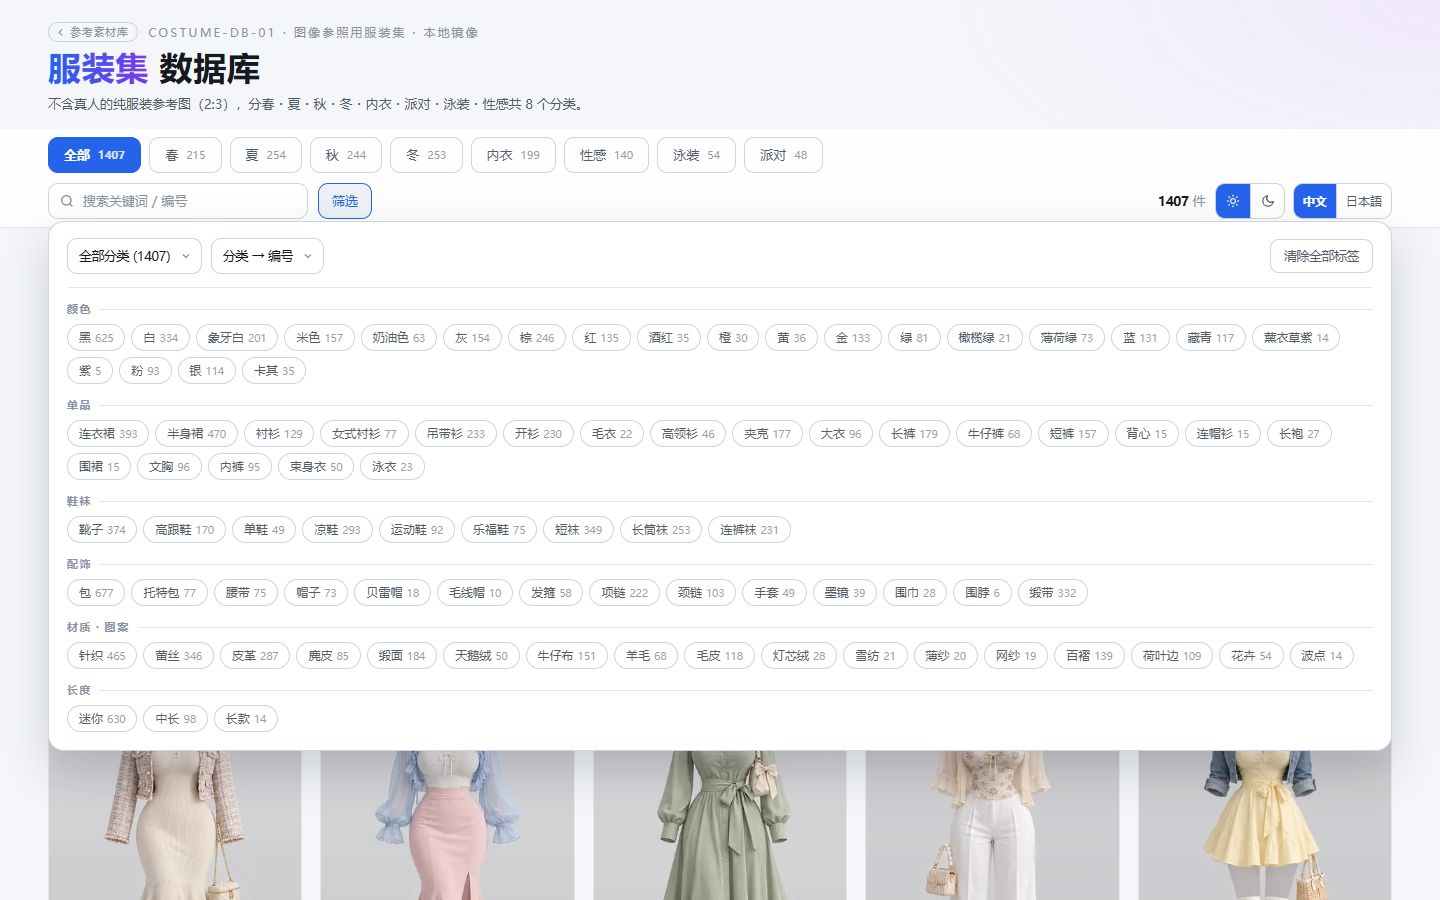
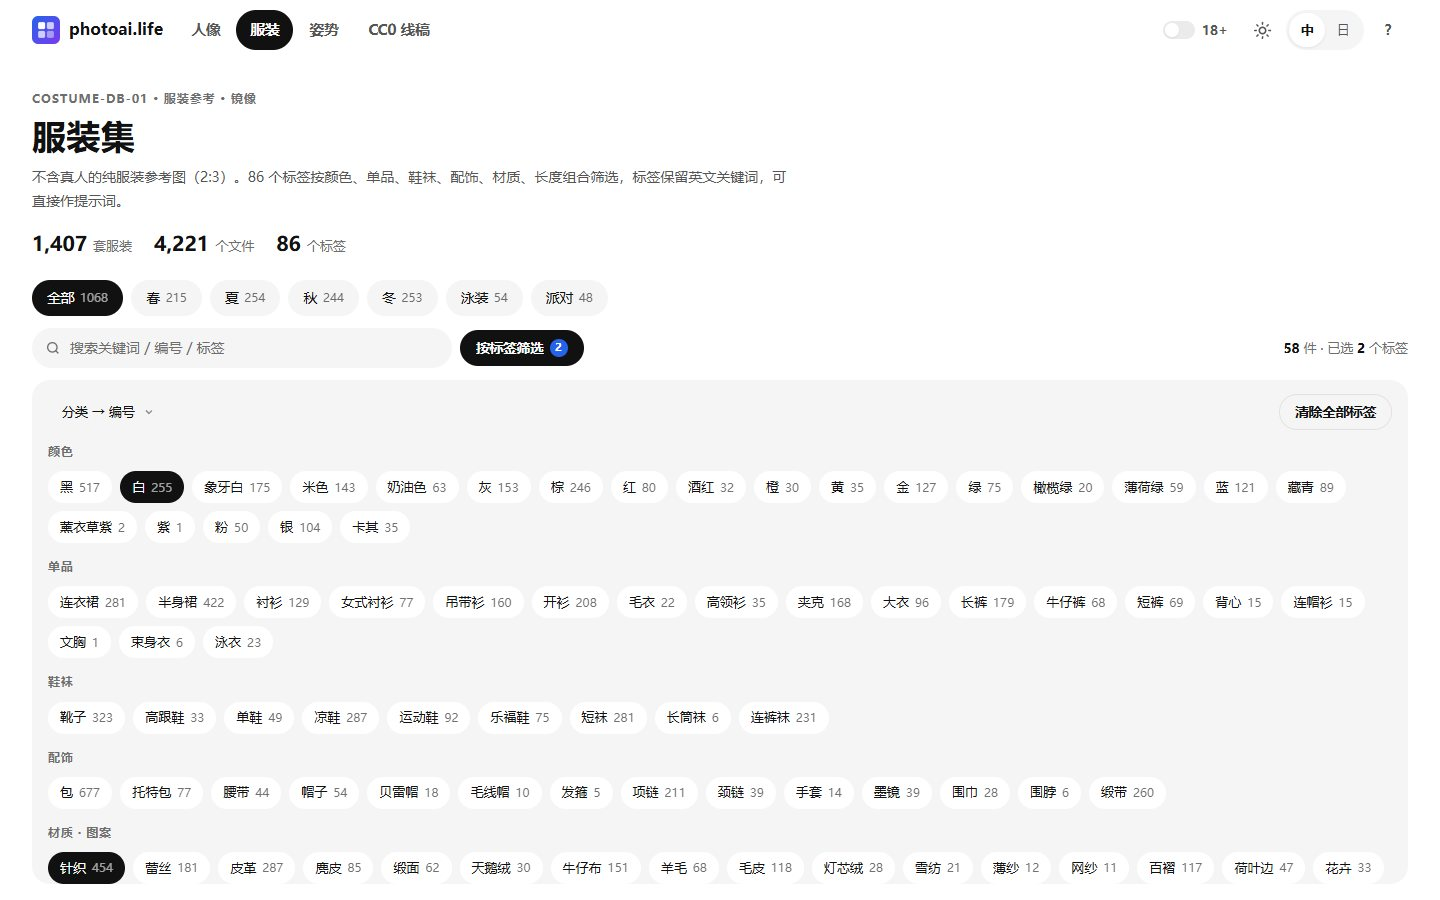
docs: README 三语、部署手册、加站指南与截图更新为新界面
- README 截图改用新界面（浅色、不含成人向内容）；姿势集写明线稿与深度图一个模块
- DEPLOY.md：原子对调循环补上 shisei 与根级文件（含新增的 404.html），修正文件数、拓扑、系统要求与验收清单
- nginx.conf 模板补 shisei 与可选 gzip 示例（线上配置不动）
- ADDING_A_SITE：ui.py 骨架用法、mergedInto / updated 字段，修正封面比例与 code 位置
- 各站 README 注明界面已统一

diff --git a/deploy/DEPLOY.md b/deploy/DEPLOY.md
@@ -10,7 +10,7 @@
 
 | 项 | 要求 |
 |---|---|
-| 系统 | Ubuntu 20.04+ / Debian 11+ |
+| 系统 | Debian 13 / Ubuntu 24.10+（原子对调需要 GNU coreutils 9.5+ 的 `mv --exchange`） |
 | git | 任意版本（更新用 `tools/update.py`，见 §4） |
 | Python | 3.8+；`tools/mid.py` 需要 Pillow（`apt install python3-pil`），其余只用标准库 |
 | 磁盘 | ≥ 10 GB 可用（图片 6.8 GB + 中图约 290 MB；硬链接不额外占盘） |
@@ -54,10 +54,10 @@ python3 tools/release.py
 发布 · 5 个站点 → /srv/ai-image-gallery/dist
   图片校验通过
   [portrait] 74 个站点文件  图片 4497 链接  → 4.8 GB
-  [costume] 106 个站点文件  图片 4221 链接  → 1.4 GB
-  [pose] 23 个站点文件  图片 4317 链接  → 710.3 MB
-  [pose-depth] 23 个站点文件  图片 4317 链接  → 162.5 MB
-  [shisei] 23 个站点文件  图片 3399 链接  → 59.1 MB
+  [costume] 98 个站点文件  图片 4221 链接  → 1.4 GB
+  [pose] 22 个站点文件  图片 4317 链接  → 710.3 MB
+  [pose-depth] 22 个站点文件  图片 4317 链接  → 162.5 MB
+  [shisei] 24 个站点文件  图片 3399 链接  → 59.1 MB
   [hub] 9 个根级文件已复制（index.html, sitemap.xml, robots.txt, og-cover.jpg, llms.txt, favicon.ico, …）
 其中 20751 个图片文件为硬链接，不额外占盘
 ```
@@ -75,8 +75,9 @@ python3 tools/release.py
 https://photoai.life/            入口页
 https://photoai.life/portrait/   人像集
 https://photoai.life/costume/    服装集
-https://photoai.life/pose/       姿势集
-https://photoai.life/pose-depth/ 深度姿势集
+https://photoai.life/pose/       姿势集（默认线稿，可切换深度图）
+https://photoai.life/pose-depth/ 姿势集的深度图入口（同一模块，默认深度图）
+https://photoai.life/shisei/     CC0 姿势线稿
 ```
 
 ### 2.1 前置：DNS 与证书
@@ -133,7 +134,7 @@ find /srv/ai-image-gallery/dist -name '*.jpg' -o -name '*.webp' -o -name '*.png'
 # 期望 20751 张图片（含 4377 张生成的中图与 Shisei 的 1133 张上游中图）
 
 # HTTP
-for p in / /portrait/ /pose/ /pose-depth/ /costume/; do
+for p in / /portrait/ /costume/ /pose/ /pose-depth/ /shisei/ /404.html; do
   printf "%-14s " "$p"; curl -s -o /dev/null -w "%{http_code}\n" "https://实际域名.com$p"
 done
 
@@ -151,10 +152,10 @@ curl -s https://实际域名.com/pose/ | grep -o 'rel="canonical" href="[^"]*"'
 
 浏览器逐站确认：
 
-- [ ] 入口页四张卡封面正常显示
+- [ ] 入口页四张大图卡片正常显示（姿势卡左半线稿、右半深度图）
 - [ ] 点击进入各站，图片能加载
-- [ ] 主题切换 ☀/☾ 有效，默认浅色
-- [ ] 语言切换 中文/日本語 有效，默认中文
+- [ ] 顶部栏的深浅色、中 / 日、18+、`?` 都有效；在一个图库里切换后，其他图库也跟着变
+- [ ] 姿势集的「线稿 / 深度图」开关整页切换，大图里「对比」可以拖动竖线
 - [ ] 卡片点开灯箱：立即显示清晰缩略图，随后换成中图（开发者工具 Network 里应是 `mid/*.webp`，不是 `img/*.png`）
 - [ ] 灯箱 `←` `→` 翻页，`Esc` 关闭；连续翻页时不会闪出上一张图
 - [ ] 滚到底部能自动加载下一页
@@ -184,14 +185,15 @@ python3 tools/release.py --out dist-stage
 
 ```bash
 test ! -e dist-prev || exit 1
-for x in index.html portrait costume pose pose-depth; do
-  mv -T --exchange "dist-stage/$x" "dist/$x" || break
+for x in index.html 404.html sitemap.xml robots.txt llms.txt portrait costume pose pose-depth shisei; do
+  if [ -e "dist/$x" ]; then mv -T --exchange "dist-stage/$x" "dist/$x" || break
+  else mv -T "dist-stage/$x" "dist/$x"; fi
 done
 mv -T dist-stage dist-prev        # 对调后暂存目录里是旧版，留作回滚
 ```
 
 `mv --exchange` 需要 GNU coreutils 9.5+（Debian 13 自带 9.7），而且**必须带 `-T`**，
-否则目标会被当成父目录，命令报错退出。只更新了部分站点时，循环里只写那几个。
+否则目标会被当成父目录，命令报错退出。线上还没有的项（例如第一次发布的 `404.html`）直接 `mv -T` 放进去，这时 `dist-prev` 里没有它，回滚时手动删掉即可。只更新了部分站点时，循环里只写那几个。
 对调完成后不需要 reload nginx。
 
 `update.py` 把改动分两类：`build.py` 会重写的构建产物直接丢弃；其他文件（源码、配置）
@@ -224,8 +226,8 @@ python3 tools/release.py --site pose --out dist-stage
 
 ```bash
 cd /srv/ai-image-gallery
-for x in index.html portrait costume pose pose-depth; do
-  mv -T --exchange "dist-prev/$x" "dist/$x" || break
+for x in index.html 404.html sitemap.xml robots.txt llms.txt portrait costume pose pose-depth shisei; do
+  [ -e "dist-prev/$x" ] && { mv -T --exchange "dist-prev/$x" "dist/$x" || break; }
 done
 ```
 
@@ -282,8 +284,8 @@ python3 tools/release.py --out dist-stage
 |---|---|---|
 | 人像集 | CC0 1.0 | ✅ 可自由分发 |
 | 姿势集 | 禁止再分发 | ⚠ 公开可访问在性质上接近再分发 |
-| 深度姿势集 | 禁止再分发 + **禁止批量下载** | ⚠ 同上，且 `fetch.py` 属被禁止行为 |
+| 姿势集 · 深度图 | 禁止再分发 + **禁止批量下载** | ⚠ 同上，且 `fetch.py` 属被禁止行为 |
 | 服装集 | 禁止再分发 | ⚠ 同姿势集 |
 | Shisei 姿势线稿 | 图片 CC0 1.0；姿势目录仅注明出处 | ✅ 图片可自由分发；suggestive 姿势默认模糊（「18+」开关打开后清晰），不进落地页与 sitemap |
 
-建议：如需公开，至少加访问控制（`nginx.conf` 末尾有配置示例）。
+成人向内容（姿势的双人与性感系列、服装的内衣与性感两类）在画廊里默认隐藏，不进任何落地页与 sitemap（`sites.json` 的 `adult` 规则）。

diff --git a/README.md b/README.md
@@ -4,7 +4,7 @@
 
 **五个 AI 绘画参考图库，一个仓库构建，一个目录部署**
 
-人像 · 姿势 · 深度姿势 · 服装 · CC0 姿势线稿 · 15,241 张参考图 · 中日双语 · 浅色 / 深色
+人像 · 姿势（线稿与深度图） · 服装 · CC0 姿势线稿 · 15,241 张参考图 · 中日双语 · 浅色 / 深色
 
 [![CI](https://github.com/Brilliant666/ai-image-gallery/actions/workflows/ci.yml/badge.svg)](https://github.com/Brilliant666/ai-image-gallery/actions/workflows/ci.yml)
 [![online](https://img.shields.io/badge/online-photoai.life-2563eb?style=flat-square)](https://photoai.life/)
@@ -34,7 +34,7 @@
 
 ![姿势集 · 灯箱](docs/screenshots/pose-lightbox.jpg)
 
-![深度姿势集](docs/screenshots/pose-depth-grid.jpg)
+![姿势集 · 深度图](docs/screenshots/pose-depth-grid.jpg)
 
 ![服装集 · 分面筛选](docs/screenshots/costume-filter.jpg)
 
@@ -50,12 +50,12 @@
 | --- | --- | --- | :---: |
 | [人像集](https://photoai.life/portrait/) | 保持角色脸部一致性的人脸参考，按发型筛选 | 1,499 张 | **CC0** |
 | [姿势集](https://photoai.life/pose/) | 无脸灰色人偶线稿，每个姿势 5 个视角 | 1,439 张 | 禁止再分发 |
-| [深度姿势集](https://photoai.life/pose-depth/) | 同批姿势的灰度深度图，适合 ControlNet | 1,439 张 | 禁止再分发 |
+| [姿势集 · 深度图](https://photoai.life/pose-depth/) | 同一模块的深度图入口，灰度深度图可直接用于 ControlNet | 1,439 张 | 禁止再分发 |
 | [服装集](https://photoai.life/costume/) | 不含真人的服装图，86 个标签分面筛选 | 1,407 件 / 4,221 张 | 禁止再分发 |
 | [Shisei 姿势线稿](https://photoai.life/shisei/) | 无脸人偶线稿，四个系列、每个姿势 5 个视角，偏性感的默认模糊 | 280 个姿势 / 1,133 张 | **CC0** |
 
-每个站都有：网格分页加载、筛选与搜索、灯箱（`←` `→` 翻页，`Esc` 关闭，手机可滑动）、原图下载、主题与语言切换。页首有一条共用顶部栏，可在五个图库之间切换，`?` 查看快捷键、`/` 跳到搜索框；姿势与深度姿势的大图里可以直接跳到另一站的同一张图。
-姿势、深度姿势和服装集的成人向内容默认隐藏，Shisei 的默认模糊；工具栏的「18+」开关确认一次年龄后打开，五个站通用。成人向内容不进任何静态落地页和 sitemap。页面是单个 `index.html`，数据内嵌，没有框架、CDN 和外部字体。
+每个站都有：网格分页加载、筛选与搜索、灯箱（`←` `→` 翻页，`Esc` 关闭，手机可滑动）、原图下载、主题与语言切换。页首是全站共用的顶部栏：图库切换、18+、深浅色、中 / 日都在上面，偏好全站通用；`?` 查看快捷键、`/` 跳到搜索框。姿势集用一个开关在线稿和深度图之间切换，大图里可以拖动竖线左右对比。
+姿势、深度姿势和服装集的成人向内容默认隐藏，Shisei 的默认模糊；顶部栏的「18+」确认一次年龄后打开，各图库通用。成人向内容不进任何静态落地页和 sitemap。页面是单个 `index.html`，数据内嵌，没有框架、CDN 和外部字体。
 
 > **人像集和 Shisei 是 CC0**，其余三个站的素材禁止再分发。Shisei 的姿势目录沿用 ai-pose-gallery，只注明出处。详见各站的 `sites/<id>/NOTICE.md`。
 

diff --git a/README_ja.md b/README_ja.md
@@ -54,7 +54,7 @@
 | [衣装集](https://photoai.life/costume/) | 人物なしの衣装、86 タグで絞り込み | 1,407 着 / 4,221 枚 | 再配布禁止 |
 | [Shisei 線画](https://photoai.life/shisei/) | 顔なしマネキン線画、4 シリーズ × 5 アングル。suggestive はぼかし表示 | 280 ポーズ / 1,133 枚 | **CC0** |
 
-各サイト共通：ページ送り付きグリッド、絞り込みと検索、ライトボックス（`←` `→` で移動、`Esc` で閉じる、タッチでスワイプ）、原寸ダウンロード、テーマと言語の切り替え。ページ上部の共通バーで 5 つのギャラリーを行き来でき、`?` でショートカット一覧、`/` で検索欄へ移動します。ポーズ集とデプス ポーズ集の拡大表示では、もう一方のサイトの同じ画像へ直接移動できます。ポーズ集・深度ポーズ集・衣装集の成人向け内容は初期状態で非表示、Shisei はぼかし表示です。ツールバーの「18+」スイッチで年齢を一度確認すると表示され、5 サイト共通で記憶します。成人向け内容は静的ランディングページと sitemap には載りません。ページは単一の `index.html` でデータを内蔵し、フレームワーク・CDN・Web フォントを使いません。
+各サイト共通：ページ送り付きグリッド、絞り込みと検索、ライトボックス（`←` `→` で移動、`Esc` で閉じる、タッチでスワイプ）、原寸ダウンロード、テーマと言語の切り替え。ページ上部の共通バーにギャラリー切り替え・18+・ライト / ダーク・言語をまとめ、設定は全ギャラリー共通です。`?` でショートカット一覧、`/` で検索欄へ移動します。ポーズ集はスイッチ一つで線画と深度マップを切り替え、拡大表示では仕切りをドラッグして左右に比較できます。ポーズ集・深度ポーズ集・衣装集の成人向け内容は初期状態で非表示、Shisei はぼかし表示です。上部バーの「18+」で年齢を一度確認すると表示され、5 サイト共通で記憶します。成人向け内容は静的ランディングページと sitemap には載りません。ページは単一の `index.html` でデータを内蔵し、フレームワーク・CDN・Web フォントを使いません。
 
 > **CC0 はポートレート集と Shisei です。** 他の 3 サイトの素材は再配布禁止です。Shisei のポーズ目録は ai-pose-gallery に基づき出典表記のみです。詳しくは `sites/<id>/NOTICE.md` を参照してください。
 

diff --git a/docs/ADDING_A_SITE.md b/docs/ADDING_A_SITE.md
@@ -49,9 +49,11 @@ sites/<新站id>/
 | `id` | 唯一标识，同时是目录名和 URL 路径 |
 | `source` | 原站地址，下载时作为 Referer |
 | `imageBase` | 可选。图片不在原站域名下时填写（如 Shisei 的图片在上游 GitHub 固定标签里），测试据此核对 manifest 的 URL |
-| `code` | 入口页封面左下角的编号 |
+| `code` | 站点编号，写在画廊页头的小标题里 |
+| `mergedInto` | 可选。并入另一个站点的模块时填对方 id（如 `pose-depth` → `pose`）：入口页与顶部栏不单独列出，下载、校验、发布照常 |
+| `updated` | 站点数据最近更新的日期，写进 sitemap 的 lastmod |
 | `cover` | 相对站点目录的封面路径 |
-| `coverPos` | 封面框是 16:10，竖图必然裁切：脸部特写用 `25%`–`35%`，全身图用 `0%`–`10%`，主体居中用 `50%` |
+| `coverPos` | 入口页封面框是 4:5，横图必然裁切：脸部特写用 `25%`–`35%`，全身图用 `0%`–`10%`，主体居中用 `50%` |
 | `tiers` | 下载与校验的档位，对应 manifest 里的 `<tier>_url` / `<tier>_path` |
 | `imageDirs` | `release.py` 硬链接的目录；含 `mid` 时 `mid.py` 会为该站生成中图（`tiers` 里已有 `mid` 的站点由上游提供，不生成） |
 | `license` | `cc0` / `conditional` / `restricted`，决定入口页卡片上的授权徽章 |
@@ -80,10 +82,9 @@ python tests/run.py                      # 提交前跑一遍；CI 也会跑
 
 新站点请保持一致：
 
-- 页首放共用顶部栏（`shared/sitenav.py` 的 `parts()`），栏上的短名在 `sitenav.LABELS` 里加一条
-- 主题切换 `[☀ Light][☾ Dark]`，默认浅色
-- 语言切换 `[中文][日本語]`，默认中文，中文在左
-- `<head>` 内用同步脚本应用已存偏好，避免刷新闪白
+- 页面骨架用 `shared/ui.py`：`<head>` 放 `head_script()` 和 `head_css()`，`<body>` 开头放 `bar(<站点id>)`，末尾放 `dialogs()` 和 `body_script()`。顶部栏里的短名在 `ui.LABELS` 里加一条
+- 深浅色、语言、18+ 都在顶部栏，偏好全站共用（`pl.theme` / `pl.lang` / `hub.adult`），页面监听 `pl:lang`、`pl:adult` 事件更新自己
+- 静态中日文写成 `<span class="zh">…</span><span class="ja">…</span>`，动态文案放进站点的 UI 表
 - 单文件 `index.html`，数据内嵌，零外部依赖
 - 分页加 `IntersectionObserver` 预取，不一次渲染全部卡片
 - 灯箱底图用清晰缩略图，不加模糊；中图到达后淡入

diff --git a/README_en.md b/README_en.md
@@ -54,7 +54,7 @@ Screenshots are taken from the live site to show the UI. The artwork belongs to 
 | [Costume](https://photoai.life/costume/) | Outfits without models, 86 faceted tags | 1,407 items / 4,221 files | No redistribution |
 | [Shisei line art](https://photoai.life/shisei/) | Faceless mannequin line art, 4 series × 5 angles; suggestive poses blurred by default | 280 poses / 1,133 | **CC0** |
 
-Every site has paginated grids, filters and search, a lightbox (`←` `→` to step, `Esc` to close, swipe on touch), original downloads, and theme and language switches. A shared top bar links all five galleries; press `?` for shortcuts and `/` to jump to search. In the Pose and Pose Depth lightboxes you can jump straight to the same image on the other site. Adult-oriented items are hidden by default on Pose, Pose Depth and Costume, and blurred on Shisei; the 18+ switch in the toolbar shows them after a one-time age check, shared across all five sites. They never appear on static landing pages or in the sitemap. Each page is a single `index.html` with embedded data and no framework, CDN or web fonts.
+Every site has paginated grids, filters and search, a lightbox (`←` `→` to step, `Esc` to close, swipe on touch), original downloads, and theme and language switches. A shared top bar holds the gallery links and the 18+, light / dark and language switches; preferences apply across all galleries. Press `?` for shortcuts and `/` to jump to search. Pose has one switch between line art and depth maps, and the lightbox can compare both with a draggable divider. Adult-oriented items are hidden by default on Pose, Pose Depth and Costume, and blurred on Shisei; the 18+ switch in the top bar shows them after a one-time age check, shared across all five sites. They never appear on static landing pages or in the sitemap. Each page is a single `index.html` with embedded data and no framework, CDN or web fonts.
 
 > **Portrait and Shisei images are CC0.** The other three sites forbid redistribution. Shisei's pose list follows ai-pose-gallery and is credited only. See `sites/<id>/NOTICE.md`.
 

diff --git a/sites/pose/README.md b/sites/pose/README.md
@@ -1,5 +1,9 @@
 # AI Pose Gallery · 中文版
 
+> **2026-10-31 起**：页面外观、顶部栏（图库切换、18+、深浅色、中 / 日、快捷键）与偏好来自 `shared/ui.py`，全站统一；下文关于页内主题 / 语言开关、页面体积等的描述是此前单站版本的说明，以仓库代码为准。
+> 姿势集与深度图已合成一个模块：/pose/ 默认线稿、/pose-depth/ 默认深度图，页面里一键切换，大图可左右对比（`shared/pose_module.py`）。
+
+
 **288 个姿势 / 1439 张多视角参考图，日文元数据完整汉化**
 
 零依赖静态画廊 · 双主题 · 中日双语 · 双击即开

diff --git a/sites/pose-depth/README.md b/sites/pose-depth/README.md
@@ -1,4 +1,8 @@
-# 深度姿势集 · 中文版
+# 姿势集 · 深度图入口（原深度姿势集）
+
+> **2026-10-31 起**：页面外观、顶部栏（图库切换、18+、深浅色、中 / 日、快捷键）与偏好来自 `shared/ui.py`，全站统一；下文关于页内主题 / 语言开关、页面体积等的描述是此前单站版本的说明，以仓库代码为准。
+> 本站现为姿势集的深度图入口：与 /pose/ 是同一个模块，默认显示深度图，可切换回线稿（`shared/pose_module.py`）。
+
 
 **1439 张人体姿势深度图 · 288 个姿势 × 5 视角 · ControlNet 深度控制参考**
 

diff --git a/sites/costume/README.md b/sites/costume/README.md
@@ -1,5 +1,8 @@
 # AI Costume Gallery · 中文版
 
+> **2026-10-31 起**：页面外观、顶部栏（图库切换、18+、深浅色、中 / 日、快捷键）与偏好来自 `shared/ui.py`，全站统一；下文关于页内主题 / 语言开关、页面体积等的描述是此前单站版本的说明，以仓库代码为准。
+
+
 **1407 件服装 / 4221 张参考图，8 个分类 + 86 个标签分面筛选**
 
 零依赖静态画廊 · 双主题 · 中日双语 · 双击即开

diff --git a/sites/portrait/README.md b/sites/portrait/README.md
@@ -1,5 +1,8 @@
 # AI 模特脸库 · 中文版
 
+> **2026-10-31 起**：页面外观、顶部栏（图库切换、18+、深浅色、中 / 日、快捷键）与偏好来自 `shared/ui.py`，全站统一；下文关于页内主题 / 语言开关、页面体积等的描述是此前单站版本的说明，以仓库代码为准。
+
+
 **1499 张人脸参考图 · 893 面部 + 606 造型 · CC0 免费使用**
 
 零依赖静态画廊 · 按发型筛选 · 中日双语 · 双击即开
